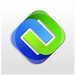
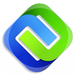
repalce iconm

diff --git a/TKD/TKDMsgDetailViewController.m b/TKD/TKDMsgDetailViewController.m
@@ -48,7 +48,7 @@
 	self.navigationItem.leftBarButtonItem.tintColor = [UIColor clearColor];
 	self.navigationItem.rightBarButtonItem.tintColor = [UIColor clearColor];
 	self.navigationItem.backBarButtonItem.tintColor = [UIColor clearColor];
-    self.messageContent = [NSString stringWithFormat:@"<p> <img src=\"%@\" width=\"305\" height=\"200\" /> </p> %@",self.messageImgUrl,self.messageContent];
+    self.messageContent = [NSString stringWithFormat:@"<p> <img src=\"%@\" width=\"305\" height=\"200\" /> </p> %@<br><br><br><br><br><br><br><br><br>",self.messageImgUrl,self.messageContent];
 	[self.webview loadHTMLString:self.messageContent baseURL:nil];
     
     

diff --git a/TKD/TKDExpressSiteContactVC.m b/TKD/TKDExpressSiteContactVC.m
@@ -37,7 +37,7 @@
 {
     [super viewDidLoad];
     self.title = @"芝麻邮";
-    self.tableView  = [[UITableView alloc]initWithFrame:CGRectMake(0, 0, 320, CGRectGetHeight(self.view.frame) - 44)];
+    self.tableView  = [[UITableView alloc]initWithFrame:CGRectMake(0, 0, 320, CGRectGetHeight(self.view.frame)-44-49)];
 	self.tableView.delegate = self;
 	self.tableView.dataSource = self;
     [self.tableView setRowHeight:207];
